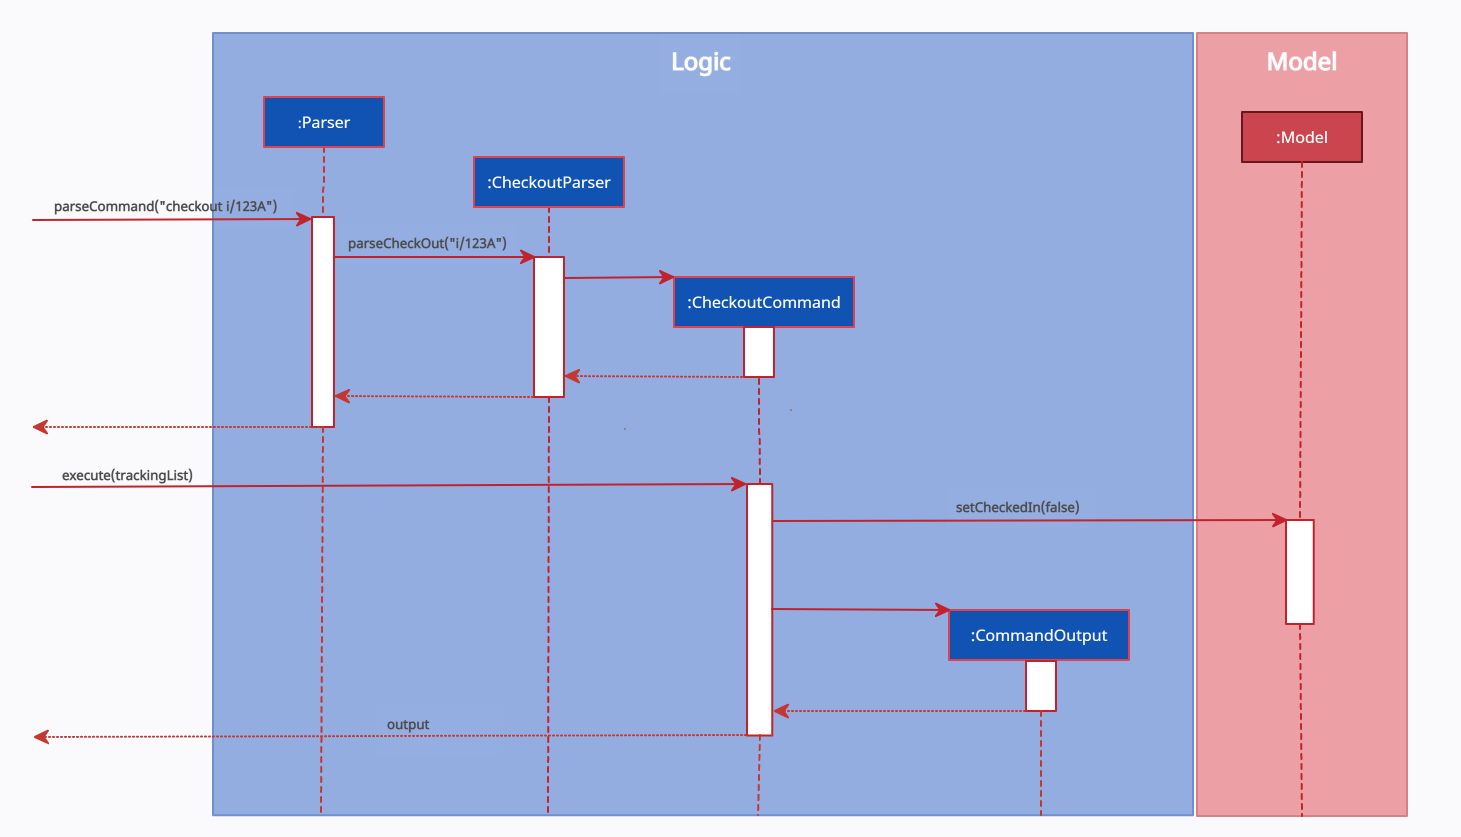
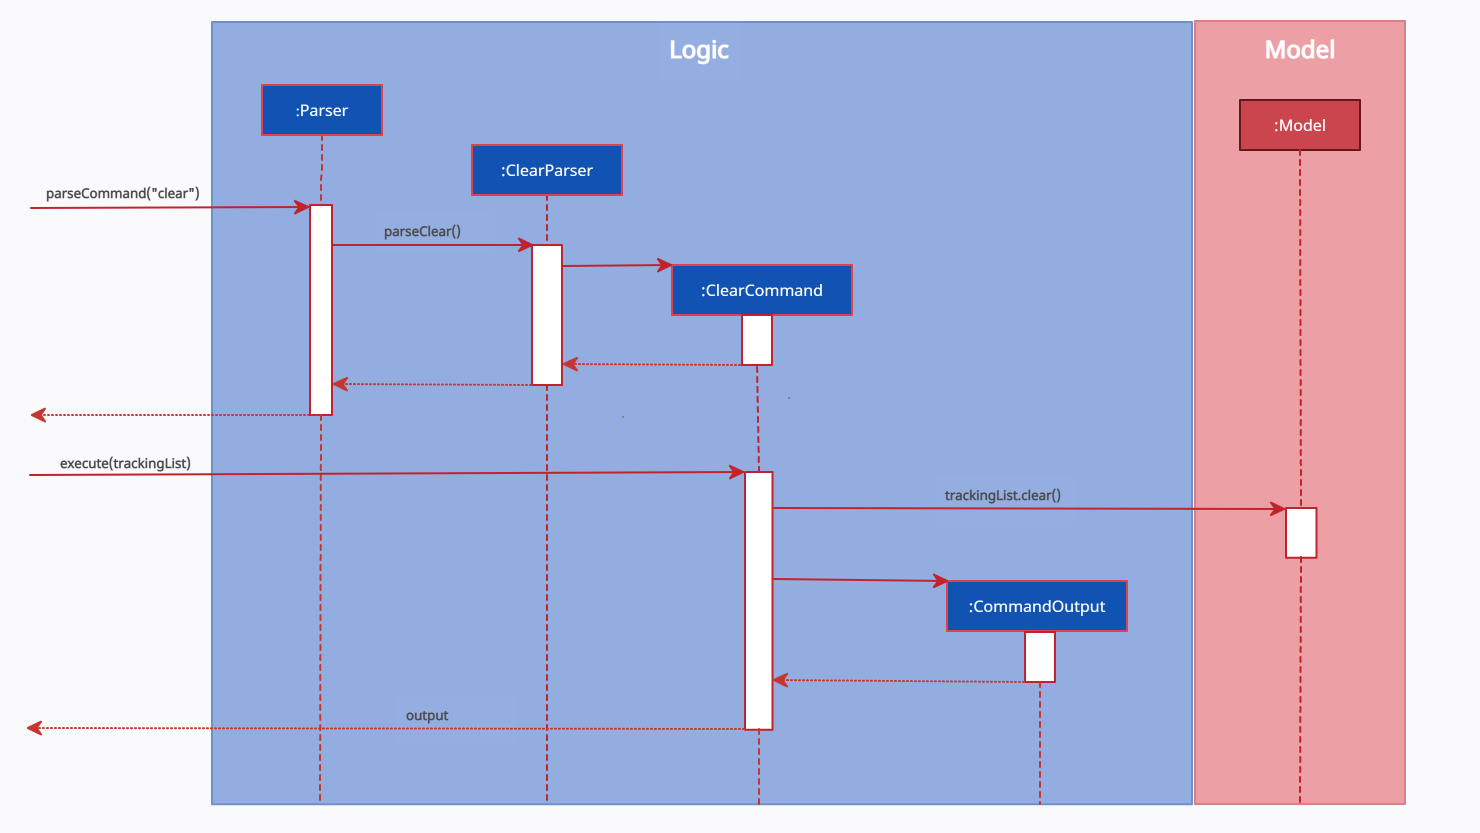
Modify the sequence diagram for logic component for clear command

diff --git a/docs/DeveloperGuide.md b/docs/DeveloperGuide.md
@@ -55,10 +55,10 @@ The Logic component,
 5. The result of the command execution is encapsulated as a `CommandOutput` object which is passed back to the `TextUi`.
 6. In addition, the `CommandOutput` object can also instruct the `TextUi` to perform certain actions, such as displaying the list to the user.
 
-Given below is the Sequence Diagram for interactions within the `Logic` component for the `parseCommand("checkout i/123A)"` API call.
+Given below is the Sequence Diagram for interactions within the `Logic` component for the `parseCommand("clear)"` API call.
 
-![LogicComponentSequenceDiagram](images/LogicComponentSequenceDiagram.png)
-*Figure #. Interactions Inside the Logic Component for the `checkout i/123A` Command*
+![](images/LogicComponentSequenceDiagram.png)
+*Figure #. Interactions Inside the Logic Component for the `clear` Command*
 
 ### Model component
 
